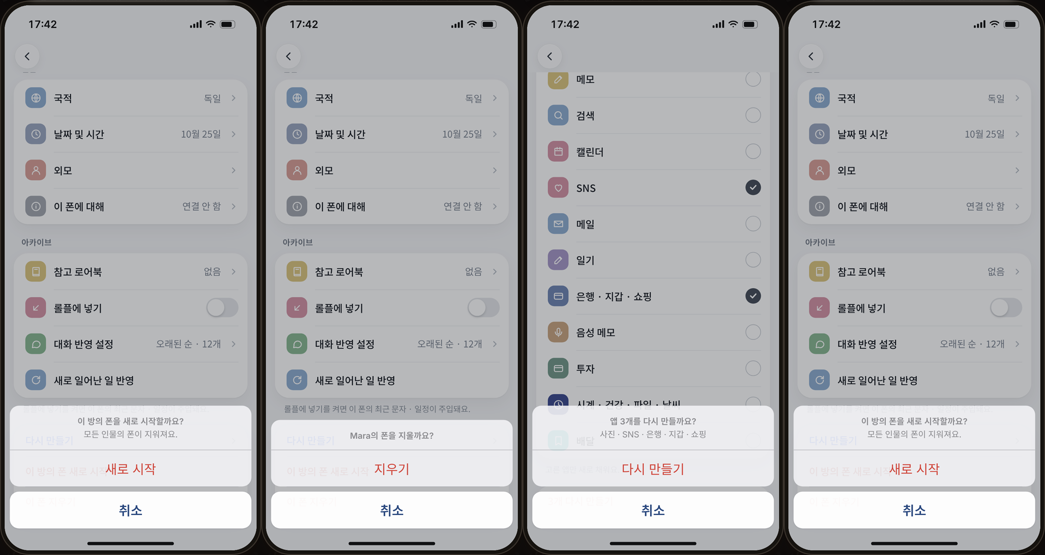
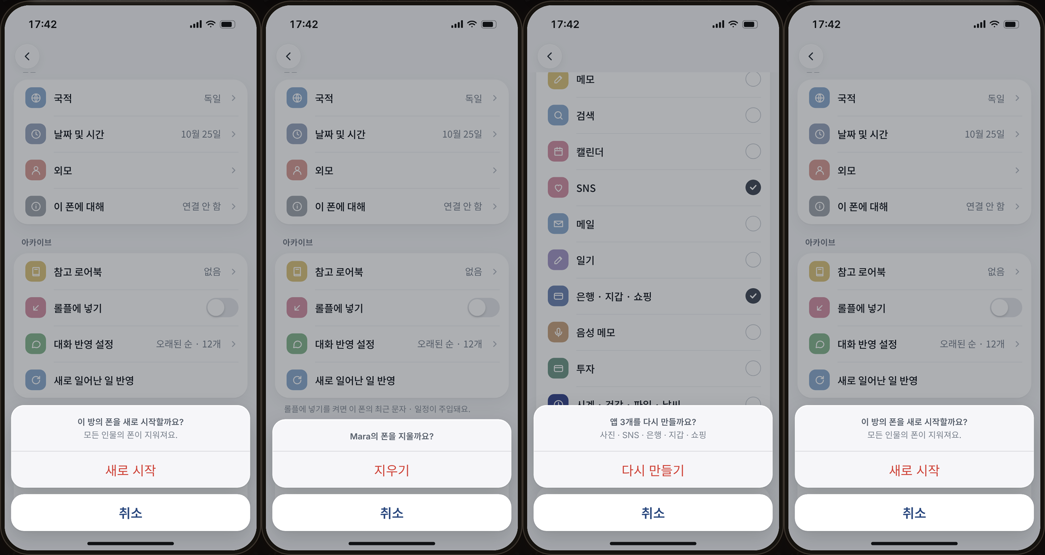
3.157.14: phone action sheet finish: opaque cards with a glass edge, light on top and two shadows, rounder corners, darker grey message (no see-through, since SillyTavern's no-blur setting turns the blur off)
Claude-Session: https://claude.ai/code/session_01TBUyc5NesEMBcPKHWzpL6W

diff --git a/style.css b/style.css
@@ -7002,19 +7002,23 @@ body:is(.na_darkui, :not(.na_darkui)) dialog.popup:has(.na_popup) .na_popup .ax 
 .na_ph_year::-webkit-outer-spin-button, .na_ph_year::-webkit-inner-spin-button { -webkit-appearance: none; margin: 0; }
 body:is(.na_darkui, :not(.na_darkui)) dialog.popup:has(.na_popup) .na_popup .ax .ax_in.na_ph_year:focus { color: #161b22 !important; }
 
-/* 폰 확인 창 › iOS action sheet inside the screen (board px): grey message + the action, a separate 취소 below */
-.pcf { position: absolute; inset: 0; z-index: 80; display: flex; flex-direction: column; justify-content: flex-end; padding: 0 8px 34px; background: rgba(15, 20, 28, 0.3); font-family: -apple-system, 'SF Pro Text', 'Noto Sans KR', sans-serif; letter-spacing: normal; line-height: normal; text-align: center; animation: pcf_dim 0.2s ease-out; }
-.pcf_box { display: flex; flex-direction: column; gap: 8px; animation: pcf_up 0.3s cubic-bezier(0.2, 0.8, 0.2, 1); }
-.pcf_card { border-radius: 14px; overflow: hidden; background: rgba(242, 242, 245, 0.9); backdrop-filter: blur(30px) saturate(160%); -webkit-backdrop-filter: blur(30px) saturate(160%); }
-.pcf_msg { display: flex; flex-direction: column; gap: 4px; padding: 14px 18px 13px; }
-.pcf_msg b { font-size: 13px; font-weight: 600; color: #8a8a8e; }
-.pcf_msg span { font-size: 13px; line-height: 1.38; color: #8a8a8e; }
+/* 폰 확인 창 › iOS action sheet inside the screen (board px): grey message + the action, a separate 취소 below. Opaque, not blurred
+   (SillyTavern's no-blur setting turns backdrop-filter off, and a see-through sheet looked flat); glass edge, light on top, two shadows */
+.pcf { position: absolute; inset: 0; z-index: 80; display: flex; flex-direction: column; justify-content: flex-end; padding: 0 10px 30px; background: rgba(15, 20, 28, 0.34); font-family: -apple-system, 'SF Pro Text', 'Noto Sans KR', sans-serif; letter-spacing: normal; line-height: normal; text-align: center; animation: pcf_dim 0.2s ease-out; }
+.pcf_box { display: flex; flex-direction: column; gap: 10px; animation: pcf_up 0.3s cubic-bezier(0.2, 0.8, 0.2, 1); }
+.pcf_card, .pcf_no { position: relative; border-radius: 20px; }
+.pcf_card { overflow: hidden; background: #f6f6f9; box-shadow: inset 0 1.5px 1px rgba(255, 255, 255, 0.95), 0 1px 2px rgba(22, 27, 34, 0.06), 0 14px 34px rgba(22, 27, 34, 0.18); }
+.pcf_no { background: #fff; box-shadow: inset 0 1.5px 1px #fff, 0 1px 2px rgba(22, 27, 34, 0.06), 0 12px 28px rgba(22, 27, 34, 0.16); }
+.pcf_card::before, .pcf_no::before { content: ""; position: absolute; inset: 0; border-radius: inherit; padding: 1px; background: linear-gradient(170deg, #fff, rgba(255, 255, 255, 0.4) 40%, rgba(255, 255, 255, 0.15) 70%, rgba(255, 255, 255, 0.6)); -webkit-mask: linear-gradient(#000 0 0) content-box, linear-gradient(#000 0 0); -webkit-mask-composite: xor; mask-composite: exclude; pointer-events: none; }
+.pcf_msg { display: flex; flex-direction: column; gap: 4px; padding: 16px 22px 14px; }
+.pcf_msg b { font-size: 13px; font-weight: 600; color: #59616d; }
+.pcf_msg span { font-size: 13px; line-height: 1.38; color: #7a828e; }
 .pcf_ok, .pcf_no { height: 57px; display: flex; align-items: center; justify-content: center; font-size: 20px; cursor: pointer; outline: none; }
-.pcf_ok { border-top: 0.5px solid rgba(60, 60, 67, 0.29); color: #d0453a; }
+.pcf_ok { border-top: 0.5px solid rgba(60, 60, 67, 0.16); color: #d0453a; }
 .pcf_ok.safe { color: #2c4a80; }
-.pcf_no { border-radius: 14px; background: rgba(255, 255, 255, 0.97); color: #2c4a80; font-weight: 600; box-shadow: 0 1px 2px rgba(22, 27, 34, 0.05); }
-.pcf_ok:active { background: rgba(60, 60, 67, 0.12); }
-.pcf_no:active { background: #e9eaee; }
+.pcf_no { color: #2c4a80; font-weight: 600; }
+.pcf_ok:active { background: rgba(60, 60, 67, 0.1); }
+.pcf_no:active { background: #eceef1; }
 @keyframes pcf_dim { from { background: rgba(15, 20, 28, 0); } }
 @keyframes pcf_up { from { transform: translateY(110%); } }
 @media (prefers-reduced-motion: reduce) { .pcf, .pcf_box { animation: none; } }

diff --git a/src/core.js b/src/core.js
@@ -12,7 +12,7 @@ import { parseSections } from './sections.js';
 
 export const MODULE = 'narrative_archive';
 export const PROMPT_KEY = 'narrative_archive_injection';
-export const VERSION = '3.157.13';
+export const VERSION = '3.157.14';
 export const SNAPSHOT_MAX = 5;
 export const SNAPSHOT_MAX_CHARS = 2_000_000;
 

diff --git a/docs/DESIGN.md b/docs/DESIGN.md
@@ -202,7 +202,7 @@
 - 섹션 제목: `.ax_sec`(작은 회색), `.ax_shd`(굵은 + 오른쪽 개수)
 - 배지: `.ax_dd`(빨강 기본, `.ok` 초록, `.g` 회색), `.ax_pend`(노랑 "대기"), `.ax_lnk`(파랑 연결)
 - 칩: `.ax_chips > button`(`.on`은 남색). 남색 머리 위에서는 `.ax_mch`로 색을 뒤집어요.
-- 확인 창: 폰 안에서 묻는 건 SillyTavern 팝업 대신 `phone.js`의 `askSheet(제목, 설명, 버튼, safe)`예요. iOS 액션 시트(`.pcf`, 시안 B)가 화면 아래에서 올라와요. 회색 제목 · 한 줄 설명 + 빨간 버튼(`safe`면 남색), 따로 떨어진 "취소". 다시 그려져도 남아요(`placeAsk`). 제목은 짧은 질문, 설명은 한 줄, 버튼은 하는 일 이름(지우기 · 다시 만들기 …)이에요.
+- 확인 창: 폰 안에서 묻는 건 SillyTavern 팝업 대신 `phone.js`의 `askSheet(제목, 설명, 버튼, safe)`예요. iOS 액션 시트(`.pcf`, 시안 B · 질감 A)가 화면 아래에서 올라와요. 블러는 SillyTavern 설정에 따라 꺼지니 불투명 색 + 유리 테두리 + 두 겹 그림자로 띄워요. 회색 제목 · 한 줄 설명 + 빨간 버튼(`safe`면 남색), 따로 떨어진 "취소". 다시 그려져도 남아요(`placeAsk`). 제목은 짧은 질문, 설명은 한 줄, 버튼은 하는 일 이름(지우기 · 다시 만들기 …)이에요.
 
 ### 은행 (`.ax_bk`)
 - 구조: `.ax_bkh`(남색 `#1d3461` 머리, 높은 건 `.ax_bkhs`, PRIVATE 더보기는 `.ax_bkpv` 검정) → `.ax_bks`(흰 시트가 머리 위로 28px 올라옴, 종이형은 `.ax_bkso`로 70px) → `.ax_scroll` → `tab('…')` 아래 탭
